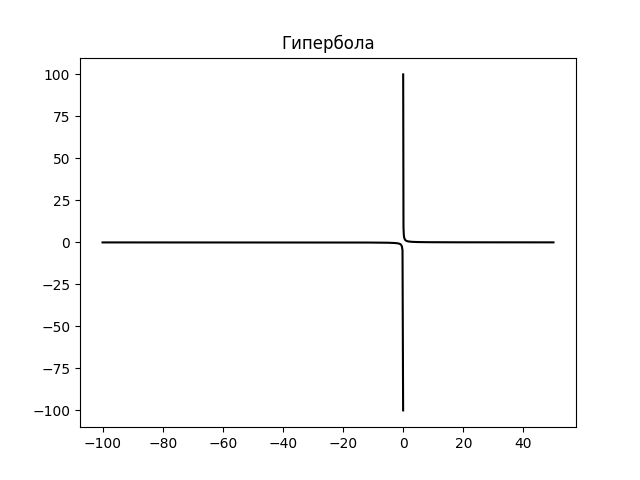
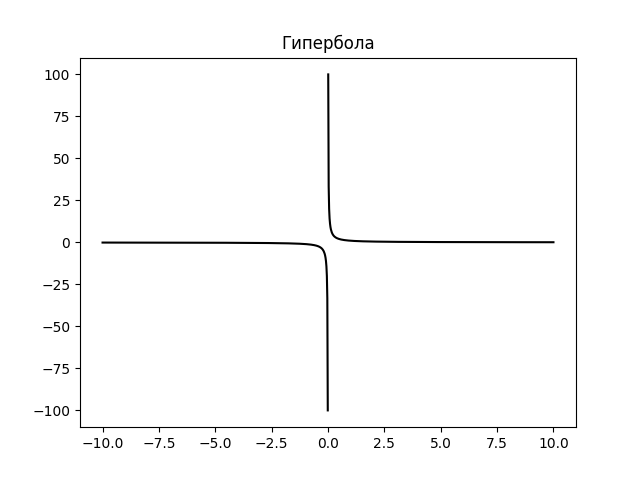
less6

diff --git a/task3.py b/task3.py
@@ -1,0 +1,10 @@
+import matplotlib.pyplot as plt
+import numpy as np
+def ellips(x_min,x_max,N):
+       x = np.linspace(x_min, x_max, N)
+       y = abs((1-(x**2-a**2))*b**2)**0.5
+       plt.plot(x,y, color= 'k')
+a = 2
+b = 4
+ellips(-10,10,100)
+plt.savefig('fig_3.png')
